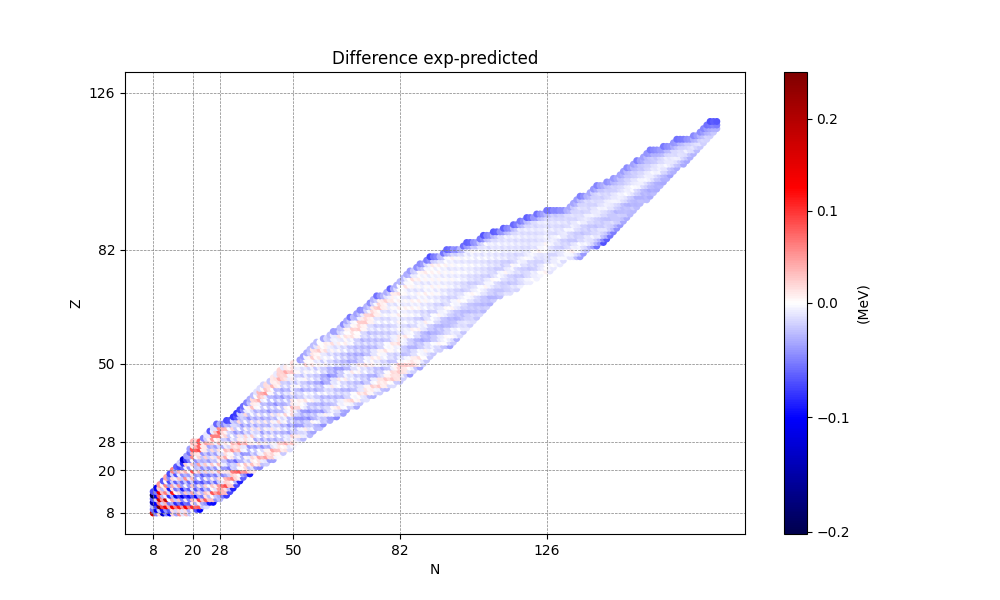
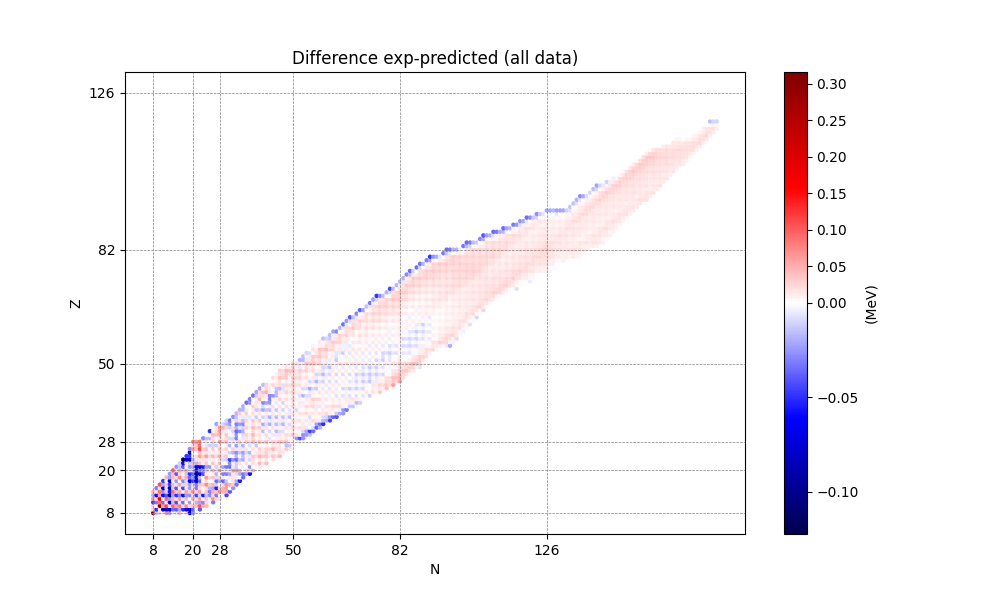
Adamax optimizer + predictions plotted

diff --git a/CNN-I3.py b/CNN-I3.py
@@ -60,7 +60,9 @@ for idx in range(len(data)):
 inputs_tensor = torch.tensor(np.array(inputs), dtype=torch.float32).to(device) #shape: (n, 3, 5, 5) where 'n' is the number of nucleus
 targets_tensor = torch.tensor(np.array(targets), dtype=torch.float32).view(-1, 1).to(device) #shape: (n, 1)
 
-train_inputs, test_inputs, train_targets, test_targets = train_test_split(inputs_tensor, targets_tensor, test_size=0.3, shuffle=True)
+indices = np.arange(len(data)) #Original indices in the Dataframe
+train_inputs, test_inputs, train_targets, test_targets, train_indices, test_indices = train_test_split(
+    inputs_tensor,targets_tensor, indices, test_size=0.3, shuffle=True, random_state=42)
 
 
 class CNN_I3(nn.Module):
@@ -78,9 +80,10 @@ class CNN_I3(nn.Module):
         x = self.fc(x)
         return x
 
+
 model = CNN_I3().to(device) #Instance of our model
 criterion = nn.MSELoss() #Instance of the MSE
-optimizer = optim.Adam(model.parameters(), lr=0.001) #model.parameters()=weights and biases to optimize
+optimizer = optim.Adamax(model.parameters(), lr=0.002) #model.parameters()=weights and biases to optimize
 #lr=how much to adjust the model's parameters with respect to the loss gradient in each epoch.
 #Adam=adaptative moment estimation. It calculates a separate learning rate for each parameter
 
@@ -137,7 +140,7 @@ max_value = max(max(train_loss_rmse_values), max(test_loss_rmse_values)) + 1
 plt.ylim(0, max_value) 
 plt.legend()
 plt.grid()
-plt.savefig(f'CNN plots/CNN-I3_evolution_{num_epochs}_epochs.png')
+plt.savefig(f'CNN plots/CNN-I3_evolution.png')
 plt.show()
 
 
@@ -148,33 +151,45 @@ else:
     model.load_state_dict(torch.load(f'cnn_i3_model_{num_epochs}_epochs.pt'))
     print('Best model not found. Loading last model')
 
-model.eval()
-with torch.no_grad():
-    all_outputs = model(inputs_tensor.to(device)).cpu().numpy() 
-    all_targets = targets_tensor.cpu().numpy()
 
-diff = all_targets - all_outputs
-scatter_data = pd.DataFrame({
-    'N': data['N'],
-    'Z': data['Z'],
-    'diff': diff.flatten()
-})
+def calculate_and_plot_differences(data, inputs, targets, indices, model, device, title, file_name):
+    model.eval() 
+    with torch.no_grad():
+        outputs = model(inputs.to(device)).cpu().numpy()
+        targets_np = targets.cpu().numpy()
+        diff = targets_np - outputs
 
-plt.figure(figsize=(10, 6))
-norm = TwoSlopeNorm(vmin=scatter_data['diff'].min(), vcenter=0, vmax=scatter_data['diff'].max())
-scatter = plt.scatter(scatter_data['N'], scatter_data['Z'], c=scatter_data['diff'],
-                      cmap='seismic', norm=norm, edgecolor='None', s=25)
-cbar = plt.colorbar(scatter)
-cbar.set_label('(MeV)')
-magic_numbers = [8, 20, 28, 50, 82, 126]
-for magic in magic_numbers:
-    plt.axvline(x=magic, color='gray', linestyle='--', linewidth=0.5) 
-    plt.axhline(y=magic, color='gray', linestyle='--', linewidth=0.5) 
-plt.xticks(magic_numbers) 
-plt.yticks(magic_numbers) 
-plt.xlabel('N') 
-plt.ylabel('Z') 
-plt.title('Difference exp-predicted')
-plt.savefig('CNN plots/CNN-I3_diff_scatter.png')
-plt.show()
+    scatter_data = pd.DataFrame({
+        'N': data.iloc[indices]['N'].values,
+        'Z': data.iloc[indices]['Z'].values,
+        'diff': diff.flatten()
+    })
+
+    plt.figure(figsize=(10, 6))
+    norm = TwoSlopeNorm(vmin=scatter_data['diff'].min(), vcenter=0, vmax=scatter_data['diff'].max())
+    scatter = plt.scatter(scatter_data['N'], scatter_data['Z'], c=scatter_data['diff'],
+                          cmap='seismic', norm=norm, edgecolor='None', s=10)
+    cbar = plt.colorbar(scatter)
+    cbar.set_label('(MeV)')
+    magic_numbers = [8, 20, 28, 50, 82, 126]
+    for magic in magic_numbers:
+        plt.axvline(x=magic, color='gray', linestyle='--', linewidth=0.5)
+        plt.axhline(y=magic, color='gray', linestyle='--', linewidth=0.5)
+    plt.xticks(magic_numbers)
+    plt.yticks(magic_numbers)
+    plt.xlabel('N')
+    plt.ylabel('Z')
+    plt.title(title)
+    plt.savefig(file_name)
+    plt.show()
+
+
+calculate_and_plot_differences(data, inputs_tensor, targets_tensor, range(len(data)), model, device,
+                               'Difference exp-predicted (all data)', 'CNN plots/CNN-I3_diff_scatter.png')
+
+calculate_and_plot_differences(data, train_inputs, train_targets, train_indices, model, device,
+                               'Difference exp-predicted (training set)', 'CNN plots/CNN-I3_diff_scatter_train.png')
+
+calculate_and_plot_differences(data, test_inputs, test_targets, test_indices, model, device,
+                               'Difference exp-predicted (test set)', 'CNN plots/CNN-I3_diff_scatter_test.png')
 
